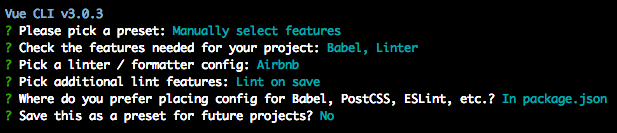
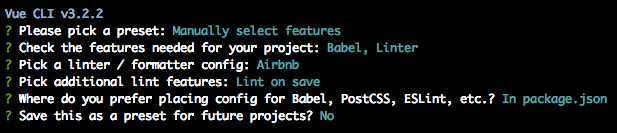
Scaffolding a Progressive Web App using Vue CLI 3

diff --git a/src/pages/2018-12-24-scaffolding-a-progressive-web-app-using-vue-cli-3/index.md b/src/pages/2018-12-24-scaffolding-a-progressive-web-app-using-vue-cli-3/index.md
@@ -94,18 +94,22 @@ my-project
 
 If you are familiar with Vue CLI 2 you'll notice right away, that these are way fewer files with even fewer lines of code (compared to running `vue init webpack my-project` back then). That means the projects generated by Vue CLI 3 are easier to understand and demand less time and effort to get an overview of.
 
-The same is true for the project's `package.json` file. Whereas a project created with Vue CLI 2 had dozens of dependencies listed, our application only has five dependencies (this of course depends on what you've selected in the prompts):
+The same is true for the project's `package.json` file. Whereas a project created with Vue CLI 2 had dozens of dependencies listed, our application has only a few dependencies (this of course depends on what you've selected in the prompts):
 
 ```json
 {
   "dependencies": {
-   "vue": "^2.5.17"
+    "vue": "^2.5.21"
   },
   "devDependencies": {
-   "@vue/cli-plugin-babel": "^3.0.3",
-   "@vue/cli-plugin-eslint": "^3.0.3",
-   "@vue/cli-service": "^3.0.3",
-   "vue-template-compiler": "^2.5.17"
+    "@vue/cli-plugin-babel": "^3.2.0",
+    "@vue/cli-plugin-eslint": "^3.2.0",
+    "@vue/cli-service": "^3.2.0",
+    "@vue/eslint-config-airbnb": "^4.0.0",
+    "babel-eslint": "^10.0.1",
+    "eslint": "^5.8.0",
+    "eslint-plugin-vue": "^5.0.0",
+    "vue-template-compiler": "^2.5.21"
   }
 }
 ```
@@ -118,12 +122,13 @@ We'll get into the details of the `@vue` packages in the next sections. Before t
 {
   "scripts": {
     "serve": "vue-cli-service serve",
-    "build": "vue-cli-service build"
+    "build": "vue-cli-service build",
+    "lint": "vue-cli-service lint"
   }
 }
 ```
 
-When you've run `npm run serve` you might have already noticed, that npm runs the `vue-cli-service serve` command. The `vue-cli-service` is a binary that was installed when creating the project. It provides a `serve` and `build` command which take over tasks that have been previously (in Vue CLI 2) been set up in each project individually.
+When you've run `npm run serve` you might have already noticed, that npm runs the `vue-cli-service serve` command. The `vue-cli-service` is a binary that was installed when creating the project. It provides a `serve`, `build` and `lint` command which take over tasks that have been previously (in Vue CLI 2) been set up in each project individually.
 
 The `vue-cli-service` is what allows the Vue CLI 3 to scaffold projects without hundreds of lines of webpack configuration. It strips away a lot of configuration while also allowing you to benefit from updates to the `vue-cli-service`, without having to adjust your project's configuration. In Vue CLI 2 updates to a template would go by your project unnoticed, if you did not invest the time to manually apply updates and resolve conflicts.
 
@@ -170,12 +175,39 @@ This will install the `@vue/cli-plugin-pwa` package (TODO Link to npm or GitHub 
    └── registerServiceWorker.js
 ```
 
+The plugin added itself and the `register-service-worker` package as dependencies to the `package.json` file. It also added a few files to the `public` folder, all of which you can edit to match your application: a `manifest.json`, `robot.txt` and a set of icons for various devices. It also adds a a few lines that initialize a Service Worker (in `main.js` and `registerServiceWorker.js`), via Google's [Workbox](https://developers.google.com/web/tools/workbox/) libray.
+
+We'll talk about how to configure the Service Worker in the next section. If you're unsure what a Service Worker is or what it's used for in a Progressive Web App -- keep in mind that we're only using it for caching network requests, so that your app (or at least parts of your app) are available offline or in unreliable network conditions.
+
+### Testing the Progressive Web App plugin
+
+The Service Worker is disabled in development mode, because local changes may not show up while you develop your application when files are being cached. This means if you want to test your Progressive Web App you'll have to build your Vue application first. This can be done by simply running `npm run build`. 
+
+You will most likely encounter linting errors when trying to run `npm run build`. To fix them automatically just run `npm run lint --fix` and it will auto-fix `main.js` and `registerServiceWorker.js` to match your ESLint settings.
+
+It's also a good idea to clear Service Workers and Cache Storage for <http://localhost:8080/>, if you have previously served another (Vue) project at this URL. (TODO How does this work in Firefox?) If you don't want to do this you can also just use the browser's incognito mode.
+
+![Chrome Dev Tools > Application > Clear storage > Clear site data](/images/vue-cli-3-pwa/clear-site-data.png)
+
+Now that you've build you application open the `dist` folder that was created and serve your application. You can do this with `npx http-server` or any other HTTP server that can serve files from a folder.
+
+TODO Describe cache storage and how to test offline functionality.
+
+![Cache Storage](/images/vue-cli-3-pwa/cache-storage.png)
+
+![Network ✔ Offline (from ServiceWorker)](/images/vue-cli-3-pwa/from-service-worker.png)
+
 ### Configuring the Progressive Web App plugin
 
-`vue.config.js`
+You have already seen where many libraries (Babel, PostCSS, ESLint …) can be configured: In dedicated config files or in `package.json` fields. For many plugins, especially official Vue CLI plugins in the `@vue` namespace there's another place for configuration: `vue.config.js`. 
+
+The `vue.config.js` does not exist when you initially create a project with  Vue CLI 3. You have to create it youself if you want to change the default configuration of your Vue CLI plugins.
+
+Here's an example configuration for my [Japanese Phrasebook](https://japanese-phrasebook.com/) Progressive Web App built with Vue CLI 3:
 
 ```js
 module.exports = {
+  // … other Vue CLI plugin options …
   pwa: {
     name: 'Japanese Phrasebook',
     themeColor: '#f44336',
@@ -192,10 +224,13 @@ module.exports = {
       importWorkboxFrom: 'local',
       navigateFallback: 'shell.html',
       navigateFallbackWhitelist: [/^((?!\/404).)*$/],
+      // … other Workbox options …
     },
   },
 };
 ```
+
+ All configuration options are listed in [@vue/cli-plugin-pwa's README.md](https://github.com/vuejs/vue-cli/tree/dev/packages/%40vue/cli-plugin-pwa#configuration). You don't have to change any of the default options, if you don't want to, but I suggest that you set the `name`, `themeColor` and `msTileColor` correctly.
 
 ## Configure webpack
 
@@ -316,8 +351,6 @@ module.exports = {
   }
 };
 ```
-
-## Build your application
 
 ## Audit with WebPagetest and Lighthouse
 
